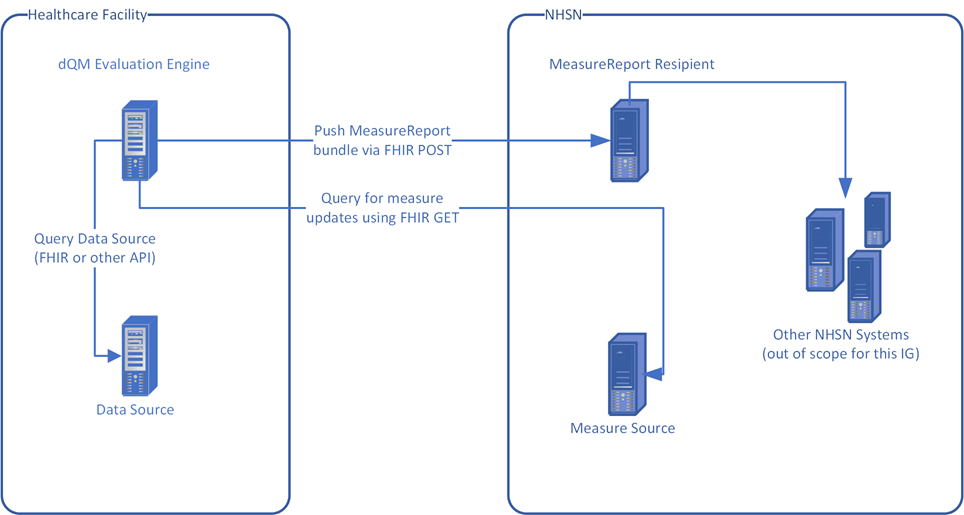
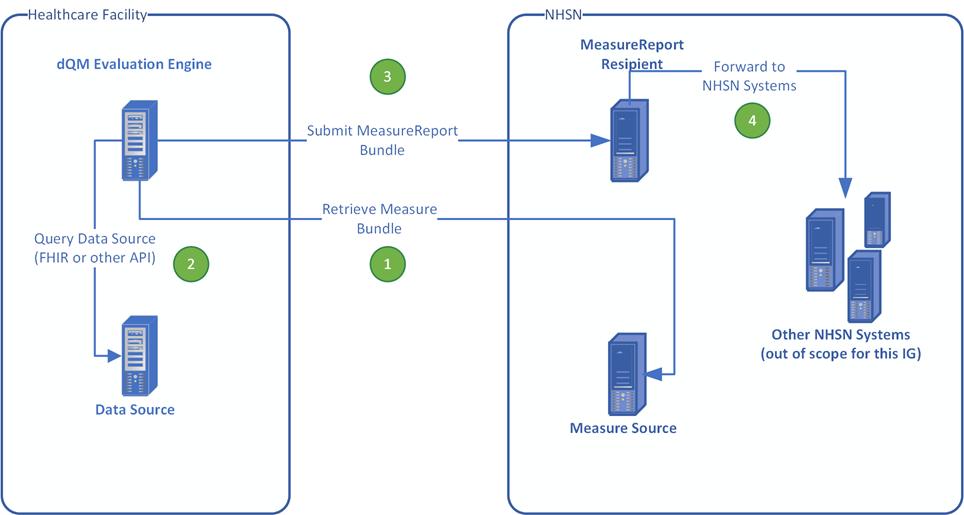
Updated push-to-nhsn diagram and call outs Downgraded back to US Core 6.1.0 for the time being since that is what QI Core currently uses

diff --git a/input/pagecontent/specification.md b/input/pagecontent/specification.md
@@ -48,9 +48,9 @@ In this scenario the Data Source SHALL have a FHIR API that at a minimum provide
 
 ![Pull from NHSN](pull-from-nhsn.png){:style="float: none;"}
 
-1. Retrieve Measure Bundle: The dQM Evaluation Engine uses an HTTP GET an NHSNMeasureBundle containing a CRMIShareableMeasure and related resources. The exact Bundle(s) to retrieve is determined by the facility and NHSN during onboarding. After retrieving the Bundle, the dQM evaluation engine parses the contents to determine which resources are needed from the Data Source, then proceeds to step 2.
-2. Query Data Source: The dQM Evaluation Engine queries the FHIR API of the Data Source (likely a certified EHR in this scenario) using HTTP GET interactions to retrieve the PatientOfInterestList for each Measure retrieved in step 1 (the POI lists in question are determined by the facility and NHSN during onboarding), followed by the resources specified in the Measure(s) for each POI list. The dQM Evaluation Engine then evaluates those data against the Measure(s) and produces MeasureReport resources conforming to DEQMIndividualMeasureReportProfile for each patient that meets the measure criteria, along with a subject-list MeasureReport conforming to the DEQMSubjectListMeasureReport profile containing references to all the individual MeasureReport resources. These MeasureReport resources, along with all the patient data references in them, are then placed in an NHSNMeasureReport bundle for submission to NHSN before proceeding to step 3.
-3. Submit MeasureReport Bundle: The dQM Evaluation Engine uses an HTTP POST to submit the NHSNMeasureReportBundle to the MeasureReport Recipient. The MeasureReport Recipient validates the Bundle and proceeds to load the data into other NHSN systems (out of scope for this IG).
+1. **Retrieve Measure Bundle:** The dQM Evaluation Engine uses an HTTP GET an NHSNMeasureBundle containing a CRMIShareableMeasure and related resources. The exact Bundle(s) to retrieve is determined by the facility and NHSN during onboarding. After retrieving the Bundle, the dQM evaluation engine parses the contents to determine which resources are needed from the Data Source, then proceeds to step 2.
+2. **Query Data Source:** The dQM Evaluation Engine queries the FHIR API of the Data Source (likely a certified EHR in this scenario) using HTTP GET interactions to retrieve the PatientOfInterestList for each Measure retrieved in step 1 (the POI lists in question are determined by the facility and NHSN during onboarding), followed by the resources specified in the Measure(s) for each POI list. The dQM Evaluation Engine then evaluates those data against the Measure(s) and produces MeasureReport resources conforming to DEQMIndividualMeasureReportProfile for each patient that meets the measure criteria, along with a subject-list MeasureReport conforming to the DEQMSubjectListMeasureReport profile containing references to all the individual MeasureReport resources. These MeasureReport resources, along with all the patient data references in them, are then placed in an NHSNMeasureReport bundle for submission to NHSN before proceeding to step 3.
+3. **Submit MeasureReport Bundle:** The dQM Evaluation Engine uses an HTTP POST to submit the NHSNMeasureReportBundle to the MeasureReport Recipient. The MeasureReport Recipient validates the Bundle and proceeds to load the data into other NHSN systems (details of such systems are out of scope for this IG).
 
 ##### Push to NHSN
 
@@ -63,6 +63,12 @@ Since the submission bundles can be quite large, the Measure Report Recipient SH
 Content-Encoding: gzip
 
 ![Push to NHSN](push-to-nhsn.png){:style="float: none;"}
+
+1. **Retrieve Measure Bundle:** The dQM Evaluation Engine uses an HTTP GET an NHSNMeasureBundle containing a CRMIShareableMeasure and related resources. The exact Bundle(s) to retrieve is determined by the facility and NHSN during onboarding. After retrieving the Bundle, the dQM evaluation engine parses the contents to determine which resources are needed from the Data Source, then proceeds to step 2.
+2. **Query Data Source:** The dQM Evaluation Engine the Data Source using FHIR or other APIs to retrieve the the resources specified in the Measure(s) for each Patient in the PatientOfInterestList (the POI lists in question are determined by the facility and NHSN during onboarding). The dQM Evaluation Engine then evaluates those data against the Measure(s) and produces MeasureReport resources conforming to DEQMIndividualMeasureReportProfile for each patient that meets the measure criteria, along with a subject-list MeasureReport conforming to the DEQMSubjectListMeasureReport profile containing references to all the individual MeasureReport resources. These MeasureReport resources, along with all the patient data references in them, are then placed in an NHSNMeasureReport bundle for submission to NHSN before proceeding to step 3.
+3. **Submit MeasureReport Bundle:** The dQM Evaluation Engine uses an HTTP POST to submit the NHSNMeasureReportBundle to the MeasureReport Recipient. The MeasureReport Recipient validates the Bundle and proceeds to step 4.
+4. **Forward to NHSN Systems:** The MeasureReport Recipient fowards the validated MeasureReport Bundle content to other back-end NHSN systems (details of such systems are out of scope for this IG).
+
 
 ##### Aggregate and Push to NHSN
 
